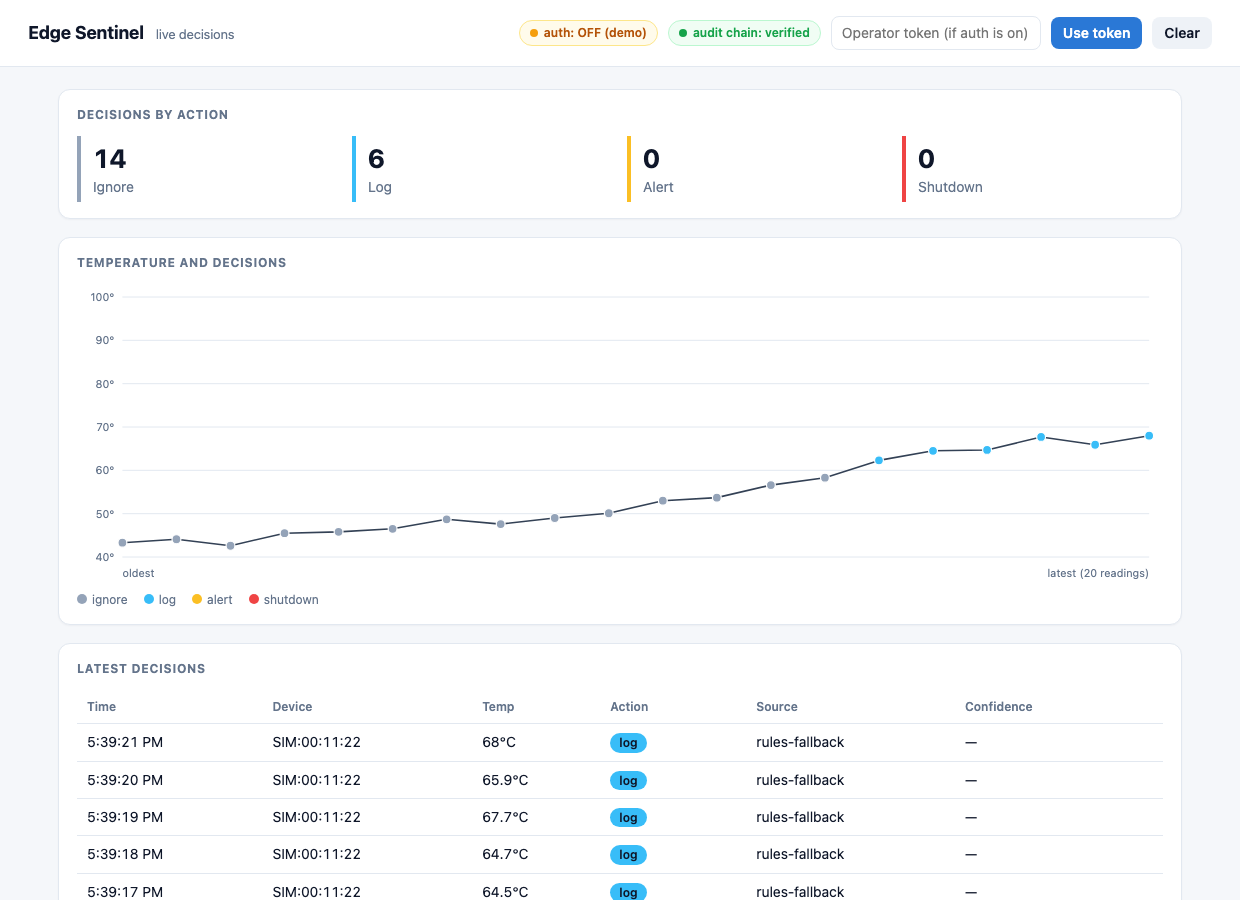
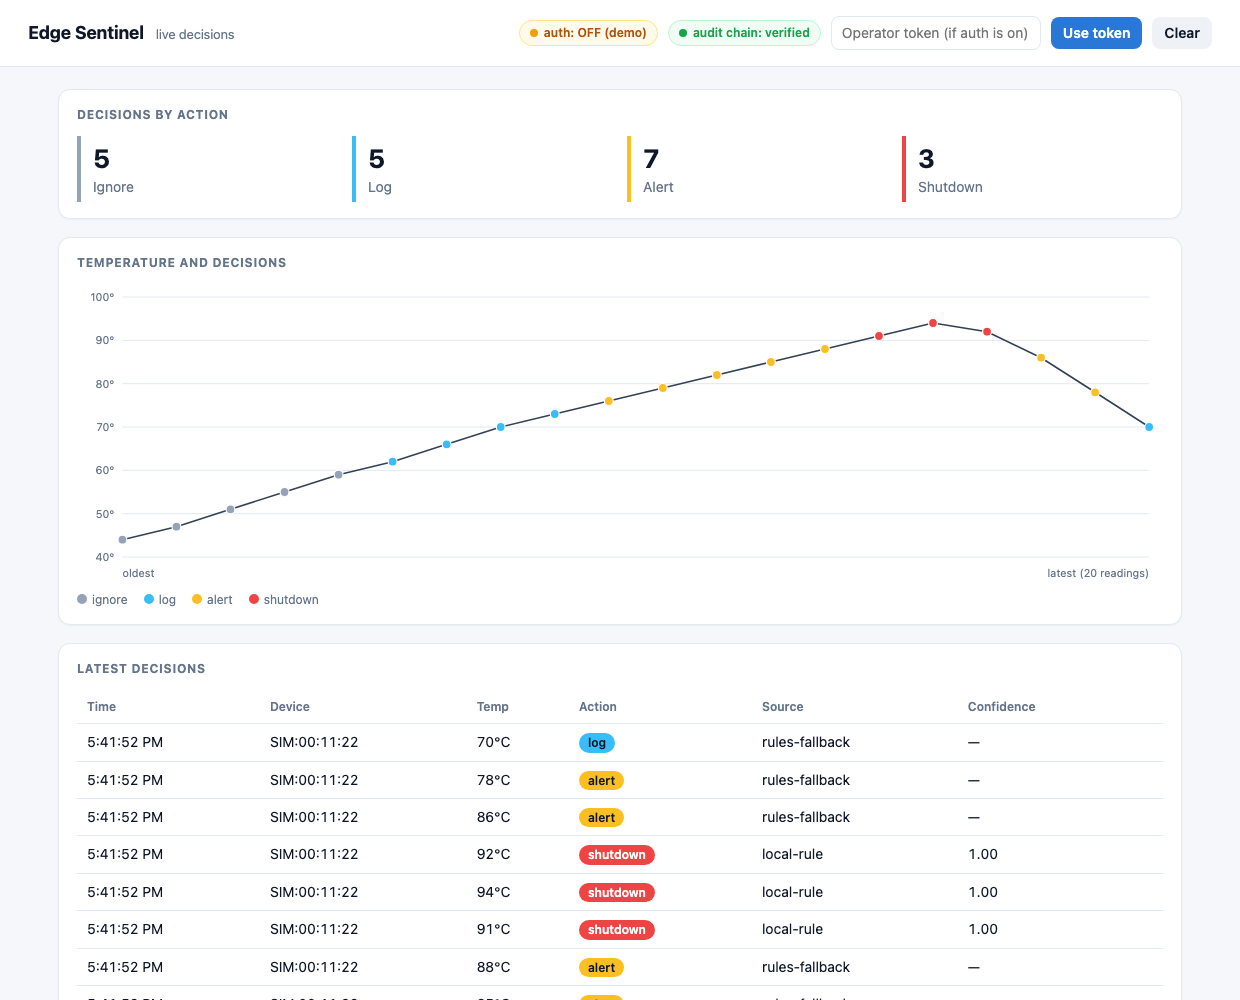
Dashboard screenshot showing all four actions; clarify it is a scripted ramp

diff --git a/README.md b/README.md
@@ -74,9 +74,10 @@ no models). Regenerate with `benchmarks/make_figures.py`.
 ![Decision per reading across a simulated temperature ramp](docs/images/decision_ramp.png)
 
 The dashboard (`/dashboard`), captured with headless Chrome against a local
-gateway while `simulate.py` ran for about 20 seconds (rules only, auth off, so
-the badge says demo). The readings are simulated and random, so a run may show
-no alerts:
+gateway (rules only, auth off, so the badge says demo). The 20 readings were a
+scripted temperature ramp posted to `POST /readings`, chosen to pass through all
+four actions. They are simulated, not from a device. Random runs of
+`simulate.py` drift upward slowly and may show no alerts:
 
 ![Edge Sentinel dashboard showing a temperature line, decision markers, counts, latest decisions and the audit-chain badge](docs/images/dashboard.png)
 
